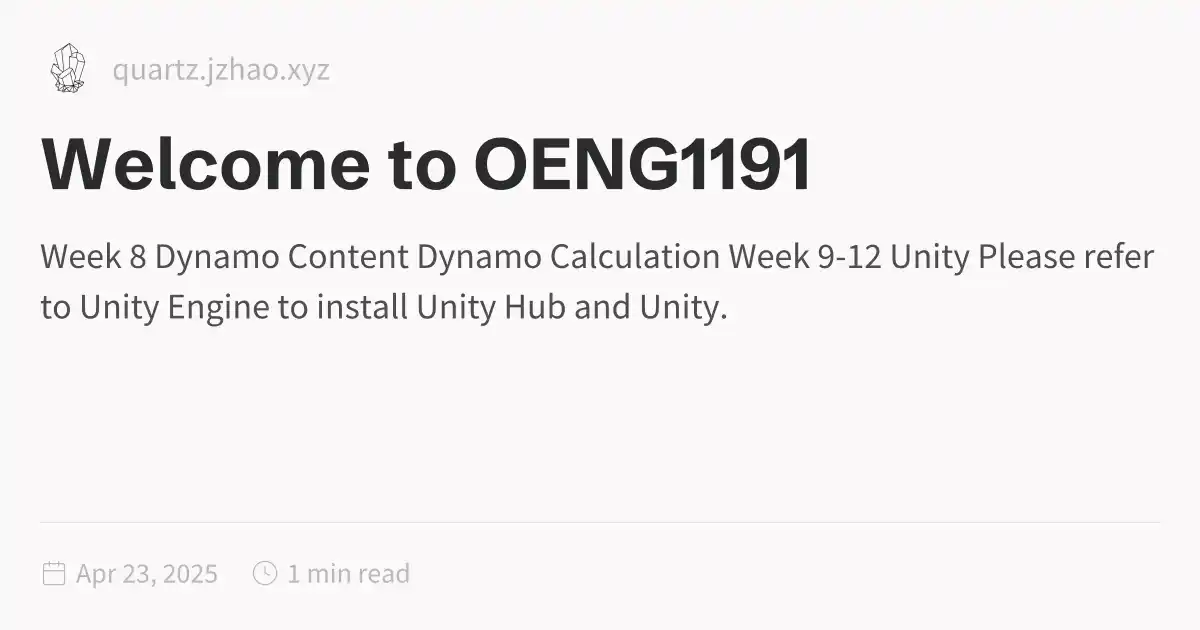
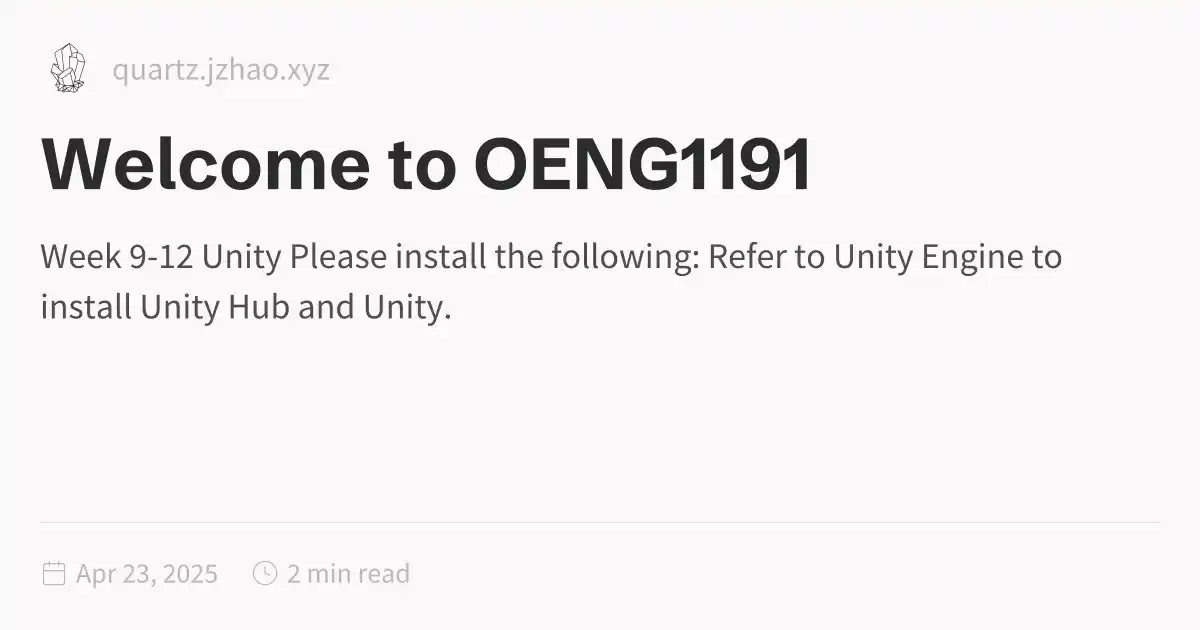
update

Changed region(s): [[0.0308, 0.3921, 0.9558, 0.5127]]

diff --git a/index.html b/index.html
@@ -1,5 +1,5 @@
 <!DOCTYPE html>
-<html lang="en"><head><title>Welcome to OENG1191</title><meta charset="utf-8"/><link rel="preconnect" href="https://fonts.googleapis.com"/><link rel="preconnect" href="https://fonts.gstatic.com"/><link rel="stylesheet" href="https://fonts.googleapis.com/css2?family=Schibsted Grotesk:wght@400;700&amp;family=Source Sans Pro:ital,wght@0,400;0,600;1,400;1,600&amp;family=IBM Plex Mono:wght@400;600&amp;display=swap"/><link rel="preconnect" href="https://cdnjs.cloudflare.com" crossorigin="anonymous"/><meta name="viewport" content="width=device-width, initial-scale=1.0"/><meta name="og:site_name" content="OENG1191 Hub"/><meta property="og:title" content="Welcome to OENG1191"/><meta property="og:type" content="website"/><meta name="twitter:card" content="summary_large_image"/><meta name="twitter:title" content="Welcome to OENG1191"/><meta name="twitter:description" content="Week 8 Dynamo Content Dynamo Calculation Week 9-12 Unity Please refer to Unity Engine to install Unity Hub and Unity."/><meta property="og:description" content="Week 8 Dynamo Content Dynamo Calculation Week 9-12 Unity Please refer to Unity Engine to install Unity Hub and Unity."/><meta property="og:image:alt" content="Week 8 Dynamo Content Dynamo Calculation Week 9-12 Unity Please refer to Unity Engine to install Unity Hub and Unity."/><meta property="twitter:domain" content="quartz.jzhao.xyz"/><meta property="og:url" content="https://quartz.jzhao.xyz/index"/><meta property="twitter:url" content="https://quartz.jzhao.xyz/index"/><link rel="icon" href="./static/icon.png"/><meta name="description" content="Week 8 Dynamo Content Dynamo Calculation Week 9-12 Unity Please refer to Unity Engine to install Unity Hub and Unity."/><meta name="generator" content="Quartz"/><link href="./index.css" rel="stylesheet" type="text/css" spa-preserve/><style>.expand-button {
+<html lang="en"><head><title>Welcome to OENG1191</title><meta charset="utf-8"/><link rel="preconnect" href="https://fonts.googleapis.com"/><link rel="preconnect" href="https://fonts.gstatic.com"/><link rel="stylesheet" href="https://fonts.googleapis.com/css2?family=Schibsted Grotesk:wght@400;700&amp;family=Source Sans Pro:ital,wght@0,400;0,600;1,400;1,600&amp;family=IBM Plex Mono:wght@400;600&amp;display=swap"/><link rel="preconnect" href="https://cdnjs.cloudflare.com" crossorigin="anonymous"/><meta name="viewport" content="width=device-width, initial-scale=1.0"/><meta name="og:site_name" content="OENG1191 Hub"/><meta property="og:title" content="Welcome to OENG1191"/><meta property="og:type" content="website"/><meta name="twitter:card" content="summary_large_image"/><meta name="twitter:title" content="Welcome to OENG1191"/><meta name="twitter:description" content="Week 9-12 Unity Please install the following: Refer to Unity Engine to install Unity Hub and Unity."/><meta property="og:description" content="Week 9-12 Unity Please install the following: Refer to Unity Engine to install Unity Hub and Unity."/><meta property="og:image:alt" content="Week 9-12 Unity Please install the following: Refer to Unity Engine to install Unity Hub and Unity."/><meta property="twitter:domain" content="quartz.jzhao.xyz"/><meta property="og:url" content="https://quartz.jzhao.xyz/index"/><meta property="twitter:url" content="https://quartz.jzhao.xyz/index"/><link rel="icon" href="./static/icon.png"/><meta name="description" content="Week 9-12 Unity Please install the following: Refer to Unity Engine to install Unity Hub and Unity."/><meta name="generator" content="Quartz"/><link href="./index.css" rel="stylesheet" type="text/css" spa-preserve/><style>.expand-button {
   position: absolute;
   display: flex;
   float: right;
@@ -116,15 +116,27 @@ pre:hover > .expand-button {
   padding: 0 12px;
   font-size: 14px;
 }
[2 lines of base64/hex data omitted]
+<h3 id="week-9-12-unity">Week 9-12 Unity<a role="anchor" aria-hidden="true" tabindex="-1" data-no-popover="true" href="#week-9-12-unity" class="internal"><svg width="18" height="18" viewBox="0 0 24 24" fill="none" stroke="currentColor" stroke-width="2" stroke-linecap="round" stroke-linejoin="round"><path d="M10 13a5 5 0 0 0 7.54.54l3-3a5 5 0 0 0-7.07-7.07l-1.72 1.71"></path><path d="M14 11a5 5 0 0 0-7.54-.54l-3 3a5 5 0 0 0 7.07 7.07l1.71-1.71"></path></svg></a></h3>
+<p>Please install the following:</p>
+<ol>
+<li>Refer to <a href="./Unity" class="internal alias" data-slug="Unity">Unity Engine</a> to install Unity Hub and Unity.</li>
+<li>Also go to <a href="https://www.blender.org/download/" class="external">https://www.blender.org/download/<svg aria-hidden="true" class="external-icon" style="max-width:0.8em;max-height:0.8em;" viewBox="0 0 512 512"><path d="M320 0H288V64h32 82.7L201.4 265.4 178.7 288 224 333.3l22.6-22.6L448 109.3V192v32h64V192 32 0H480 320zM32 32H0V64 480v32H32 456h32V480 352 320H424v32 96H64V96h96 32V32H160 32z"></path></svg></a> to download Blender, which is needed in Assignment 3</li>
+</ol>
+<blockquote class="callout warning" data-callout="warning">
+<div class="callout-title">
+                  <div class="callout-icon"></div>
+                  <div class="callout-title-inner"><p>Important </p></div>
+                  
+                </div>
+<div class="callout-content">
+<p>Blender is needed in Assignment 3 to fix the render issue in Unity models.
+Note that points will be deducted if your assignment 3 models has render issue.
+Refer the handout of week 9 import.</p>
+</div>
+</blockquote>
 <h3 id="week-8-dynamo-content">Week 8 Dynamo Content<a role="anchor" aria-hidden="true" tabindex="-1" data-no-popover="true" href="#week-8-dynamo-content" class="internal"><svg width="18" height="18" viewBox="0 0 24 24" fill="none" stroke="currentColor" stroke-width="2" stroke-linecap="round" stroke-linejoin="round"><path d="M10 13a5 5 0 0 0 7.54.54l3-3a5 5 0 0 0-7.07-7.07l-1.72 1.71"></path><path d="M14 11a5 5 0 0 0-7.54-.54l-3 3a5 5 0 0 0 7.07 7.07l1.71-1.71"></path></svg></a></h3>
 <p><a href="./Dynamo-Calculation" class="internal alias" data-slug="Dynamo-Calculation">Dynamo Calculation</a></p>
-<h3 id="week-9-12-unity">Week 9-12 Unity<a role="anchor" aria-hidden="true" tabindex="-1" data-no-popover="true" href="#week-9-12-unity" class="internal"><svg width="18" height="18" viewBox="0 0 24 24" fill="none" stroke="currentColor" stroke-width="2" stroke-linecap="round" stroke-linejoin="round"><path d="M10 13a5 5 0 0 0 7.54.54l3-3a5 5 0 0 0-7.07-7.07l-1.72 1.71"></path><path d="M14 11a5 5 0 0 0-7.54-.54l-3 3a5 5 0 0 0 7.07 7.07l1.71-1.71"></path></svg></a></h3>
-<ol>
-<li>Please refer to <a href="./Unity" class="internal alias" data-slug="Unity">Unity Engine</a> to install Unity Hub and Unity.</li>
-<li>Please also go to <a href="https://www.blender.org/download/" class="external">https://www.blender.org/download/<svg aria-hidden="true" class="external-icon" style="max-width:0.8em;max-height:0.8em;" viewBox="0 0 512 512"><path d="M320 0H288V64h32 82.7L201.4 265.4 178.7 288 224 333.3l22.6-22.6L448 109.3V192v32h64V192 32 0H480 320zM32 32H0V64 480v32H32 456h32V480 352 320H424v32 96H64V96h96 32V32H160 32z"></path></svg></a> to download Blender, which is needed in Assignment 3</li>
-</ol>
-<h2 id>====================</h2>
 <h3 id="hardware-requirements">Hardware Requirements<a role="anchor" aria-hidden="true" tabindex="-1" data-no-popover="true" href="#hardware-requirements" class="internal"><svg width="18" height="18" viewBox="0 0 24 24" fill="none" stroke="currentColor" stroke-width="2" stroke-linecap="round" stroke-linejoin="round"><path d="M10 13a5 5 0 0 0 7.54.54l3-3a5 5 0 0 0-7.07-7.07l-1.72 1.71"></path><path d="M14 11a5 5 0 0 0-7.54-.54l-3 3a5 5 0 0 0 7.07 7.07l1.71-1.71"></path></svg></a></h3>
 <p>To complete this course, you <strong>MUST HAVE</strong> a <strong>Windows laptop</strong> and bring it to class. If you do not have a Windows laptop, please do not enroll.</p>
 <h3 id="software-required">Software Required<a role="anchor" aria-hidden="true" tabindex="-1" data-no-popover="true" href="#software-required" class="internal"><svg width="18" height="18" viewBox="0 0 24 24" fill="none" stroke="currentColor" stroke-width="2" stroke-linecap="round" stroke-linejoin="round"><path d="M10 13a5 5 0 0 0 7.54.54l3-3a5 5 0 0 0-7.07-7.07l-1.72 1.71"></path><path d="M14 11a5 5 0 0 0-7.54-.54l-3 3a5 5 0 0 0 7.07 7.07l1.71-1.71"></path></svg></a></h3>
@@ -167,6 +179,6 @@ pre:hover > .expand-button {
                 C46.042,11.405,47.451,12,49,12c3.309,0,6-2.691,6-6S52.309,0,49,0z M11,9c0-1.103,0.897-2,2-2s2,0.897,2,2s-0.897,2-2,2
                 S11,10.103,11,9z M6,51c-2.206,0-4-1.794-4-4s1.794-4,4-4s4,1.794,4,4S8.206,51,6,51z M33,49c0,2.206-1.794,4-4,4s-4-1.794-4-4
                 s1.794-4,4-4S33,46.794,33,49z M29,31c-3.309,0-6-2.691-6-6s2.691-6,6-6s6,2.691,6,6S32.309,31,29,31z M47,41c0,1.103-0.897,2-2,2
-                s-2-0.897-2-2s0.897-2,2-2S47,39.897,47,41z M49,10c-2.206,0-4-1.794-4-4s1.794-4,4-4s4,1.794,4,4S51.206,10,49,10z"></path></svg></button></div><div class="global-graph-outer"><div class="global-graph-container" data-cfg="{&quot;drag&quot;:true,&quot;zoom&quot;:true,&quot;depth&quot;:-1,&quot;scale&quot;:0.9,&quot;repelForce&quot;:0.5,&quot;centerForce&quot;:0.2,&quot;linkDistance&quot;:30,&quot;fontSize&quot;:0.6,&quot;opacityScale&quot;:1,&quot;showTags&quot;:true,&quot;removeTags&quot;:[],&quot;focusOnHover&quot;:true,&quot;enableRadial&quot;:true}"></div></div></div><div class="toc desktop-only"><button type="button" class="toc-header" aria-controls="toc-content" aria-expanded="true"><h3>Table of Contents</h3><svg xmlns="http://www.w3.org/2000/svg" width="24" height="24" viewBox="0 0 24 24" fill="none" stroke="currentColor" stroke-width="2" stroke-linecap="round" stroke-linejoin="round" class="fold"><polyline points="6 9 12 15 18 9"></polyline></svg></button><ul class="toc-content overflow" id="list-1"><li class="depth-1"><a href="#week-8-dynamo-content" data-for="week-8-dynamo-content">Week 8 Dynamo Content</a></li><li class="depth-1"><a href="#week-9-12-unity" data-for="week-9-12-unity">Week 9-12 Unity</a></li><li class="depth-0"><a href="#" data-for>====================</a></li><li class="depth-1"><a href="#hardware-requirements" data-for="hardware-requirements">Hardware Requirements</a></li><li class="depth-1"><a href="#software-required" data-for="software-required">Software Required</a></li><li class="depth-1"><a href="#faq" data-for="faq">FAQ</a></li><li class="overflow-end"></li></ul></div></div><footer class><p>Created with <a href="https://quartz.jzhao.xyz/">Quartz v4.5.0</a> © 2025</p><ul></ul></footer></div></div></body><script type="application/javascript">function o(){let t=this.parentElement;t.classList.toggle("is-collapsed");let e=t.classList.contains("is-collapsed")?this.scrollHeight:t.scrollHeight;t.style.maxHeight=e+"px";let c=t,l=t.parentElement;for(;l;){if(!l.classList.contains("callout"))return;let i=l.classList.contains("is-collapsed")?l.scrollHeight:l.scrollHeight+c.scrollHeight;l.style.maxHeight=i+"px",c=l,l=l.parentElement}}function n(){let t=document.getElementsByClassName("callout is-collapsible");for(let s of t){let e=s.firstElementChild;if(!e)continue;e.addEventListener("click",o),window.addCleanup(()=>e.removeEventListener("click",o));let l=s.classList.contains("is-collapsed")?e.scrollHeight:s.scrollHeight;s.style.maxHeight=l+"px"}}document.addEventListener("nav",n);
+                s-2-0.897-2-2s0.897-2,2-2S47,39.897,47,41z M49,10c-2.206,0-4-1.794-4-4s1.794-4,4-4s4,1.794,4,4S51.206,10,49,10z"></path></svg></button></div><div class="global-graph-outer"><div class="global-graph-container" data-cfg="{&quot;drag&quot;:true,&quot;zoom&quot;:true,&quot;depth&quot;:-1,&quot;scale&quot;:0.9,&quot;repelForce&quot;:0.5,&quot;centerForce&quot;:0.2,&quot;linkDistance&quot;:30,&quot;fontSize&quot;:0.6,&quot;opacityScale&quot;:1,&quot;showTags&quot;:true,&quot;removeTags&quot;:[],&quot;focusOnHover&quot;:true,&quot;enableRadial&quot;:true}"></div></div></div><div class="toc desktop-only"><button type="button" class="toc-header" aria-controls="toc-content" aria-expanded="true"><h3>Table of Contents</h3><svg xmlns="http://www.w3.org/2000/svg" width="24" height="24" viewBox="0 0 24 24" fill="none" stroke="currentColor" stroke-width="2" stroke-linecap="round" stroke-linejoin="round" class="fold"><polyline points="6 9 12 15 18 9"></polyline></svg></button><ul class="toc-content overflow" id="list-1"><li class="depth-0"><a href="#week-9-12-unity" data-for="week-9-12-unity">Week 9-12 Unity</a></li><li class="depth-0"><a href="#week-8-dynamo-content" data-for="week-8-dynamo-content">Week 8 Dynamo Content</a></li><li class="depth-0"><a href="#hardware-requirements" data-for="hardware-requirements">Hardware Requirements</a></li><li class="depth-0"><a href="#software-required" data-for="software-required">Software Required</a></li><li class="depth-0"><a href="#faq" data-for="faq">FAQ</a></li><li class="overflow-end"></li></ul></div></div><footer class><p>Created with <a href="https://quartz.jzhao.xyz/">Quartz v4.5.0</a> © 2025</p><ul></ul></footer></div></div></body><script type="application/javascript">function o(){let t=this.parentElement;t.classList.toggle("is-collapsed");let e=t.classList.contains("is-collapsed")?this.scrollHeight:t.scrollHeight;t.style.maxHeight=e+"px";let c=t,l=t.parentElement;for(;l;){if(!l.classList.contains("callout"))return;let i=l.classList.contains("is-collapsed")?l.scrollHeight:l.scrollHeight+c.scrollHeight;l.style.maxHeight=i+"px",c=l,l=l.parentElement}}function n(){let t=document.getElementsByClassName("callout is-collapsible");for(let s of t){let e=s.firstElementChild;if(!e)continue;e.addEventListener("click",o),window.addCleanup(()=>e.removeEventListener("click",o));let l=s.classList.contains("is-collapsed")?e.scrollHeight:s.scrollHeight;s.style.maxHeight=l+"px"}}document.addEventListener("nav",n);
 </script><script type="module">function f(i,e){if(!i)return;function r(o){o.target===this&&(o.preventDefault(),o.stopPropagation(),e())}function t(o){o.key.startsWith("Esc")&&(o.preventDefault(),e())}i?.addEventListener("click",r),window.addCleanup(()=>i?.removeEventListener("click",r)),document.addEventListener("keydown",t),window.addCleanup(()=>document.removeEventListener("keydown",t))}function y(i){for(;i.firstChild;)i.removeChild(i.firstChild)}var h=class{constructor(e,r){this.container=e;this.content=r;this.setupEventListeners(),this.setupNavigationControls(),this.resetTransform()}isDragging=!1;startPan={x:0,y:0};currentPan={x:0,y:0};scale=1;MIN_SCALE=.5;MAX_SCALE=3;cleanups=[];setupEventListeners(){let e=this.onMouseDown.bind(this),r=this.onMouseMove.bind(this),t=this.onMouseUp.bind(this),o=this.resetTransform.bind(this);this.container.addEventListener("mousedown",e),document.addEventListener("mousemove",r),document.addEventListener("mouseup",t),window.addEventListener("resize",o),this.cleanups.push(()=>this.container.removeEventListener("mousedown",e),()=>document.removeEventListener("mousemove",r),()=>document.removeEventListener("mouseup",t),()=>window.removeEventListener("resize",o))}cleanup(){for(let e of this.cleanups)e()}setupNavigationControls(){let e=document.createElement("div");e.className="mermaid-controls";let r=this.createButton("+",()=>this.zoom(.1)),t=this.createButton("-",()=>this.zoom(-.1)),o=this.createButton("Reset",()=>this.resetTransform());e.appendChild(t),e.appendChild(o),e.appendChild(r),this.container.appendChild(e)}createButton(e,r){let t=document.createElement("button");return t.textContent=e,t.className="mermaid-control-button",t.addEventListener("click",r),window.addCleanup(()=>t.removeEventListener("click",r)),t}onMouseDown(e){e.button===0&&(this.isDragging=!0,this.startPan={x:e.clientX-this.currentPan.x,y:e.clientY-this.currentPan.y},this.container.style.cursor="grabbing")}onMouseMove(e){this.isDragging&&(e.preventDefault(),this.currentPan={x:e.clientX-this.startPan.x,y:e.clientY-this.startPan.y},this.updateTransform())}onMouseUp(){this.isDragging=!1,this.container.style.cursor="grab"}zoom(e){let r=Math.min(Math.max(this.scale+e,this.MIN_SCALE),this.MAX_SCALE),t=this.content.getBoundingClientRect(),o=t.width/2,n=t.height/2,c=r-this.scale;this.currentPan.x-=o*c,this.currentPan.y-=n*c,this.scale=r,this.updateTransform()}updateTransform(){this.content.style.transform=`translate(${this.currentPan.x}px, ${this.currentPan.y}px) scale(${this.scale})`}resetTransform(){this.scale=1;let e=this.content.querySelector("svg");this.currentPan={x:e.getBoundingClientRect().width/2,y:e.getBoundingClientRect().height/2},this.updateTransform()}},C=["--secondary","--tertiary","--gray","--light","--lightgray","--highlight","--dark","--darkgray","--codeFont"],E;document.addEventListener("nav",async()=>{let e=document.querySelector(".center").querySelectorAll("code.mermaid");if(e.length===0)return;E||=await import("https://cdnjs.cloudflare.com/ajax/libs/mermaid/11.4.0/mermaid.esm.min.mjs");let r=E.default,t=new WeakMap;for(let n of e)t.set(n,n.innerText);async function o(){for(let s of e){s.removeAttribute("data-processed");let a=t.get(s);a&&(s.innerHTML=a)}let n=C.reduce((s,a)=>(s[a]=window.getComputedStyle(document.documentElement).getPropertyValue(a),s),{}),c=document.documentElement.getAttribute("saved-theme")==="dark";r.initialize({startOnLoad:!1,securityLevel:"loose",theme:c?"dark":"base",themeVariables:{fontFamily:n["--codeFont"],primaryColor:n["--light"],primaryTextColor:n["--darkgray"],primaryBorderColor:n["--tertiary"],lineColor:n["--darkgray"],secondaryColor:n["--secondary"],tertiaryColor:n["--tertiary"],clusterBkg:n["--light"],edgeLabelBackground:n["--highlight"]}}),await r.run({nodes:e})}await o(),document.addEventListener("themechange",o),window.addCleanup(()=>document.removeEventListener("themechange",o));for(let n=0;n<e.length;n++){let v=function(){let g=l.querySelector("#mermaid-space"),m=l.querySelector(".mermaid-content");if(!m)return;y(m);let w=c.querySelector("svg").cloneNode(!0);m.appendChild(w),l.classList.add("active"),g.style.cursor="grab",u=new h(g,m)},M=function(){l.classList.remove("active"),u?.cleanup(),u=null},c=e[n],s=c.parentElement,a=s.querySelector(".clipboard-button"),d=s.querySelector(".expand-button"),p=window.getComputedStyle(a),L=a.offsetWidth+parseFloat(p.marginLeft||"0")+parseFloat(p.marginRight||"0");d.style.right=`calc(${L}px + 0.3rem)`,s.prepend(d);let l=s.querySelector("#mermaid-container");if(!l)return;let u=null;d.addEventListener("click",v),f(l,M),window.addCleanup(()=>{u?.cleanup(),d.removeEventListener("click",v)})}});
 </script><script src="https://cdn.jsdelivr.net/npm/katex@0.16.11/dist/contrib/copy-tex.min.js" type="application/javascript"></script><script src="./postscript.js" type="module"></script></html>
